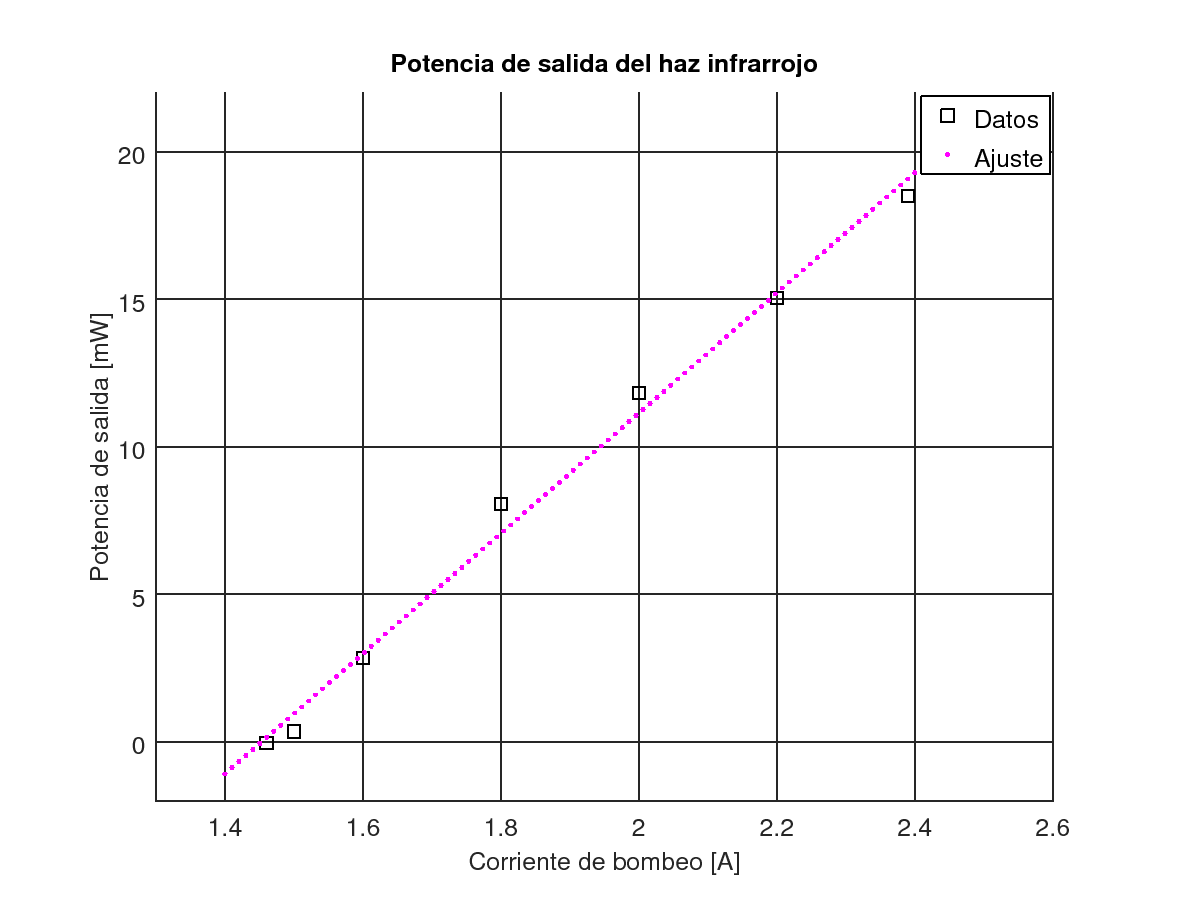
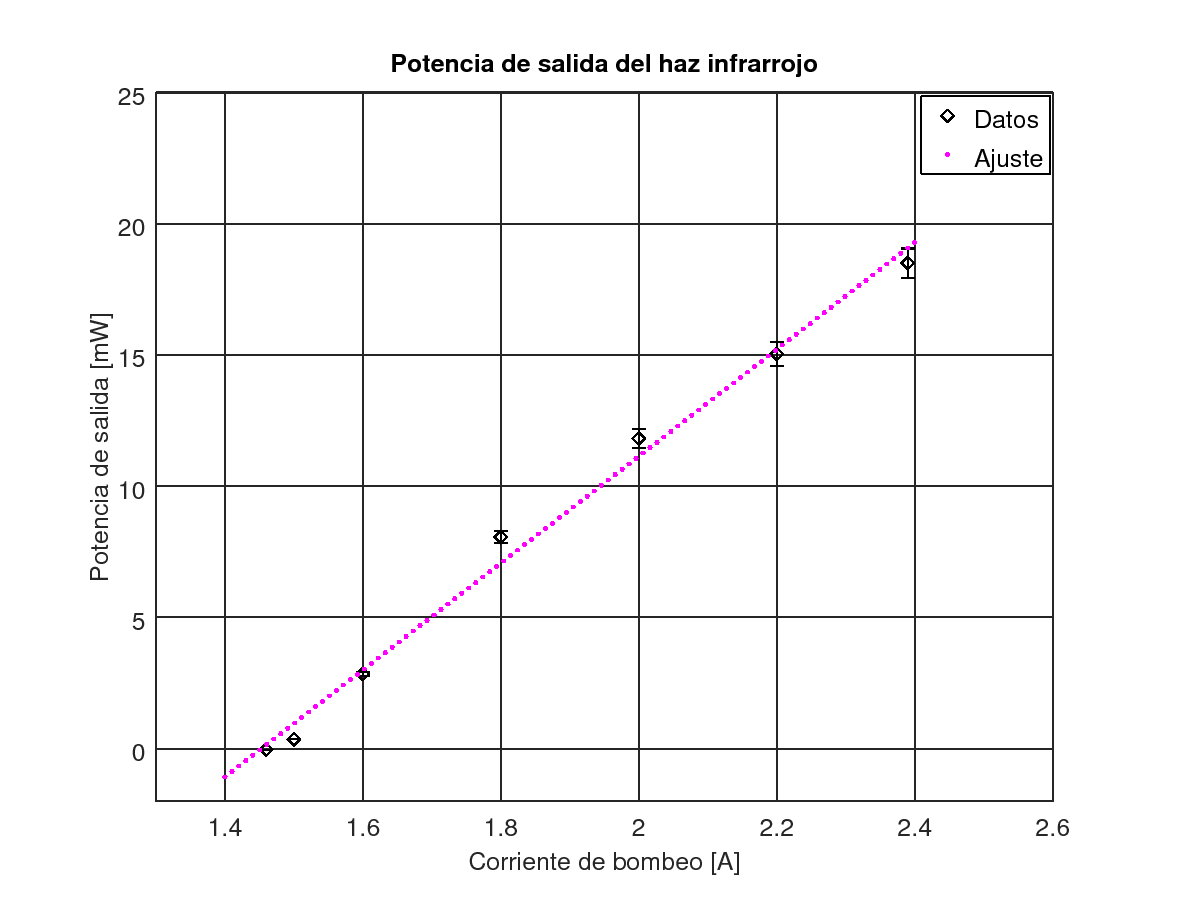
actualizacion

diff --git a/main.tex b/main.tex
@@ -125,6 +125,23 @@ Para tomar una fotografía del modo TEM$_{00}$ se colocó una hoja de papel cuad
 Por último, se generó segunda armónica. Para ello, se colocó, en el brazo b y cerca del espejo de salida, un cristal KTP (potassium titanyl phosphate). Luego, detrás del espejo de salida se ubicó un prisma para separar los haces verde e infrarrojo y se midió la variación de potencia de salida de cada haz en función de la corriente de bombeo, tal como se había hecho con el haz saliente de la cavidad plano--paralela.   
 
 
+
+\begin{figure}[H]
+    \centering
+    \includegraphics[scale=0.5]{Graficos/cavplana.png}
+    \caption{Arreglo de la cavidad plano--paralela junto con el sistema de alineación compuesto por el láser de He--Ne y los espejos de Ag.}
+    \label{cavplana}
+\end{figure}
+
+
+
+\begin{figure}[H]
+    \centering
+    \includegraphics[scale=0.5]{Graficos/cavV1.png}
+    \caption{Arreglo de la cavidad en V. Detrás del espejo de salida se colocó un espejo de Ag para redireccionar el haz hacia una pantalla ubicada a, aproximadamente, 4m.}
+    \label{cavV1}
+\end{figure}
+
 %------------------------------------------------
 
 \section{Resultados y análisis}
@@ -132,9 +149,12 @@ Por último, se generó segunda armónica. Para ello, se colocó, en el brazo b 
 
 Los resultados obtenidos en relación a la potencia tanto del láser como de bombeo fueron los esperados (\textcolor{cyan}{Estoy suponiendo que vamos a rehacer los de bombeo y van a dar lo que esperamos. Sino cambio esta frase})({\textcolor{DarkBlue}{Si volvemos a hacer la medicion y no da, me uno a la compania del anillo y me voy con Frodo hasta la Montala del Destino a arrojar el anillo unico}}). En la Fig. \ref{laservscorr} se ve que la potencia óptica del láser es insignificante hasta que la corriente de bombeo alcanza 1.9A. A partir de ese umbral, la potencia aumenta de forma lineal  (R$^2$ = 0,99192, $\chi^2$ = 0,02477), con pendiente $ (11,89 \pm 0,38)$mW/A, lo cual implica una ganancia de [\textcolor{cyan}{algo, si es que vale esta afirmación}]. \textcolor{cyan}{Resultaría interesante estudiar, en alguna experiencia futura, hasta qué valor de corriente se mantiene esta relación lineal}. 
 
-La variación de la potencia óptica con la distancia (Fig. \ref{laservsdist}), a priori, parecen indicar que esta disminuye a medida que se aleja el sensor del láser. Sin embargo, teniendo en cuenta las características de estos dispositivos (\textcolor{cyan}{insertar características del láser}), se descarta esta suposición. Se cree que el porqué del comportamiento radica en la dirección del haz; es posible que este estuviera ligeramente desviado con respecto a la línea que une el láser con el sensor (\textcolor{DarkBlue}{El area activa del sensor tiene un diametro de 12 mm , a medida que te alejas aumenta el brazo de palanca por lo que una pequeña desviacion de la direcccion del haz puede tranquilamente salirse del area, ademas esta el angulo de la cabeza del detector respecto al eje del vastago }). Además, a pesar de haber utilizado un obturador, no se debe descartar que parte del haz del diodo de bombeo haya podido filtrarse y su potencia ser medida junto con la del láser. Esto podría explicar el comportamiento de los últimos tres puntos; de haber sido únicamente un problema de dirección del haz, los datos deberían haberse ubicado todos sobre una recta decreciente (como los primeros tres) hasta alcanzar una distancia en que la potencia fuera nula, pues el haz ya no estaría incidiendo sobre el sensor. 
+La variación de la potencia óptica con la distancia (Fig. \ref{laservsdist}), a priori, parecen indicar que esta disminuye a medida que se aleja el sensor del láser. Sin embargo, teniendo en cuenta que una de las características de estos dispositivos es su gran colimación, se descarta esta suposición. Se cree que el porqué del comportamiento radica en la dirección del haz; es posible que este estuviera ligeramente desviado con respecto a la línea que une el láser con el sensor (\textcolor{DarkBlue}{El area activa del sensor tiene un diametro de 12 mm , a medida que te alejas aumenta el brazo de palanca por lo que una pequeña desviacion de la direcccion del haz puede tranquilamente salirse del area, ademas esta el angulo de la cabeza del detector respecto al eje del vastago }). Además, a pesar de haber utilizado un obturador, no se debe descartar que parte del haz del diodo de bombeo haya podido filtrarse y su potencia ser medida junto con la del láser. Esto podría explicar el comportamiento de los últimos tres puntos; de haber sido únicamente un problema de dirección del haz, los datos deberían haberse ubicado todos sobre una recta decreciente (como los primeros tres) hasta alcanzar una distancia en que la potencia fuera nula, pues el haz ya no estaría incidiendo sobre el sensor. 
 
 (\textcolor{Green}{ Bueno mas o menos te cuento como es el analisis de los modos TEM y vos despues lo reelaboras para que coincida con el estilo del informe. \newline En primer lugar de las fotografias obtenidas se aislo la region de la foto correspondiente al modo y se corrigio la perspectiva. Esto hay que hacerlo porque sino introduce errores a la hora de analizar el perfil. Obteniendose imagenes de los modos en escala de grises de 16-bits de profundidad. En segun lugar se analizo estas imagenes en Python con el modulo scikit-video, la idea es que para cada direccion de la imagen ( o sea primero analizas la matriz como viene y despues repetis para la transpuesta), o sea basicamente primero obtenes la curva de la integral en esa direccion , haciendo una suma de todas las intensidades de todos los pixeles en una linea y despues haciendo una "suma acumulada" de todos estos valores la cual normalize a 1 . Finalmente obtenes el perfil de intensidades derivando esta curva. Por ultimo lo que hice fue pasar todos estos datos a Origin y hacer un ajuste no lineal de los perfiles. Despues en las conclusiones hay que aclarar que no es posible hacer un ajuste directo de los modos gaussianos, debido a los errores o "ruidos" introducidos por la diferencia de contraste entre los modos, el fondo debido al laser de bombeo, el tono del papel y porque estamos tomando fotos de la imagen proyectada sobre el papel y no directamente sobre el sensor de la camara CCD . Si es posible ajustar para modos bajos si se compensan esos errores en el ajuste, pero para modos mayores a 3 es imposible porque los picos estan demasiado cerca y el ruido te tapa cualquier estructura fina.})
+
+
+Una vez generada segunda armónica y separados los haces verde e infrarrojo, se midió la potencia de cada uno y los resultados son los que se muestran en las Fig. \ref{potverde} y \ref{potrojo}. 
 
 
 \textcolor{magenta}{Segunda armónica infrarrojo:
@@ -160,30 +180,30 @@ Segunda armónica en verde:
 
 \begin{figure}[H]
     \centering
-    \includegraphics[scale=0.3]{Graficos/potlaservscorr.png}
+    \includegraphics[scale=0.4]{Graficos/potvscor.png}
     \caption{Potencia óptica de láser en función de la corriente de bombeo. La potencia aumenta linealmente a partir de 1.9A.}
     \label{laservscorr}
 \end{figure}
 
 \begin{figure}[H]
     \centering
-    \includegraphics[scale=0.3]{Graficos/potlaservsdist.png}
+    \includegraphics[scale=0.4]{Graficos/potvsdist.png}
     \caption{Potencia óptica de láser en función de la distancia para una corriente de bombeo constante de 2.39A.}
     \label{laservsdist}
 \end{figure}
 
 \begin{figure}[H]
     \centering
-    \includegraphics[scale=0.4]{Graficos/pot_verde.png}
+    \includegraphics[scale=0.4]{Graficos/pot_verde1.png}
     \caption{Potencia 2do armónico verde}
-    \label{laservsdist}
+    \label{potverde}
 \end{figure}
 
 \begin{figure}[H]
     \centering
     \includegraphics[scale=0.4]{Graficos/pot_infrarrojo.png}
     \caption{Potencia 2do armónico infrarrojo + ajuste lineal}
-    \label{laservsdist}
+    \label{potrojo}
 \end{figure}
 
 
